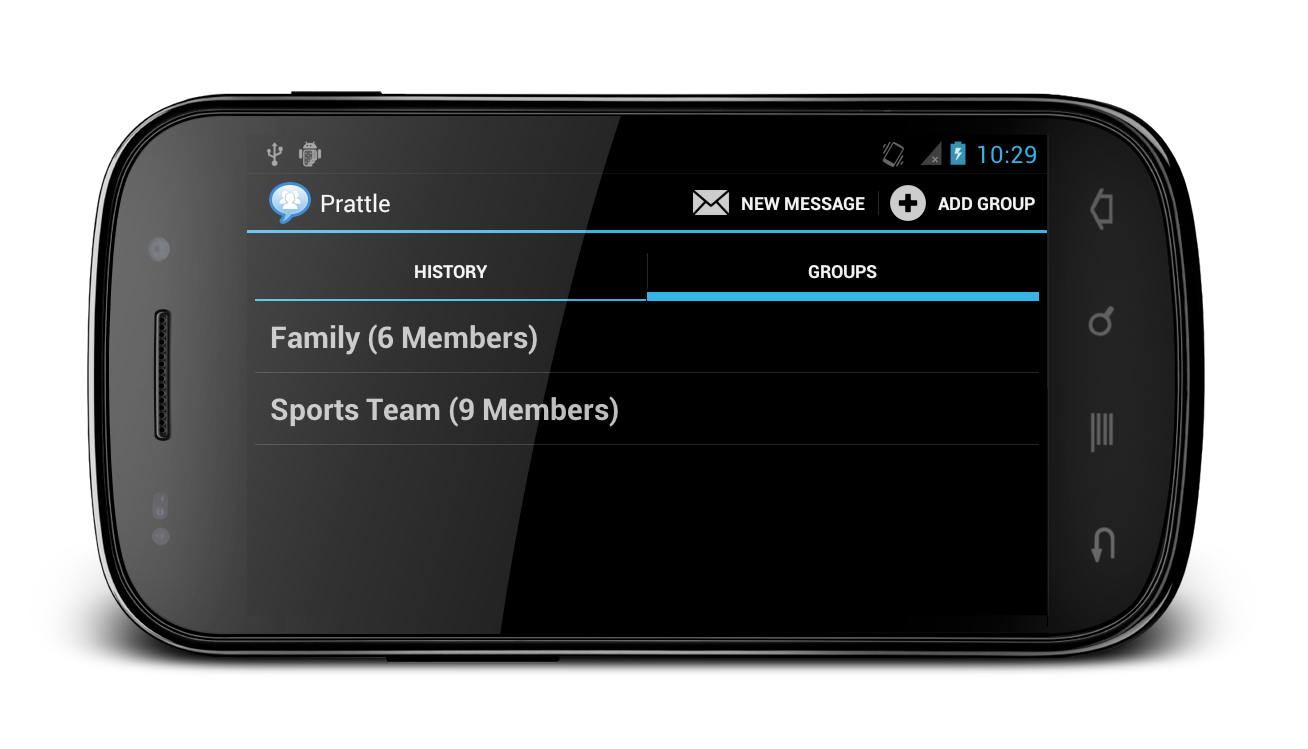
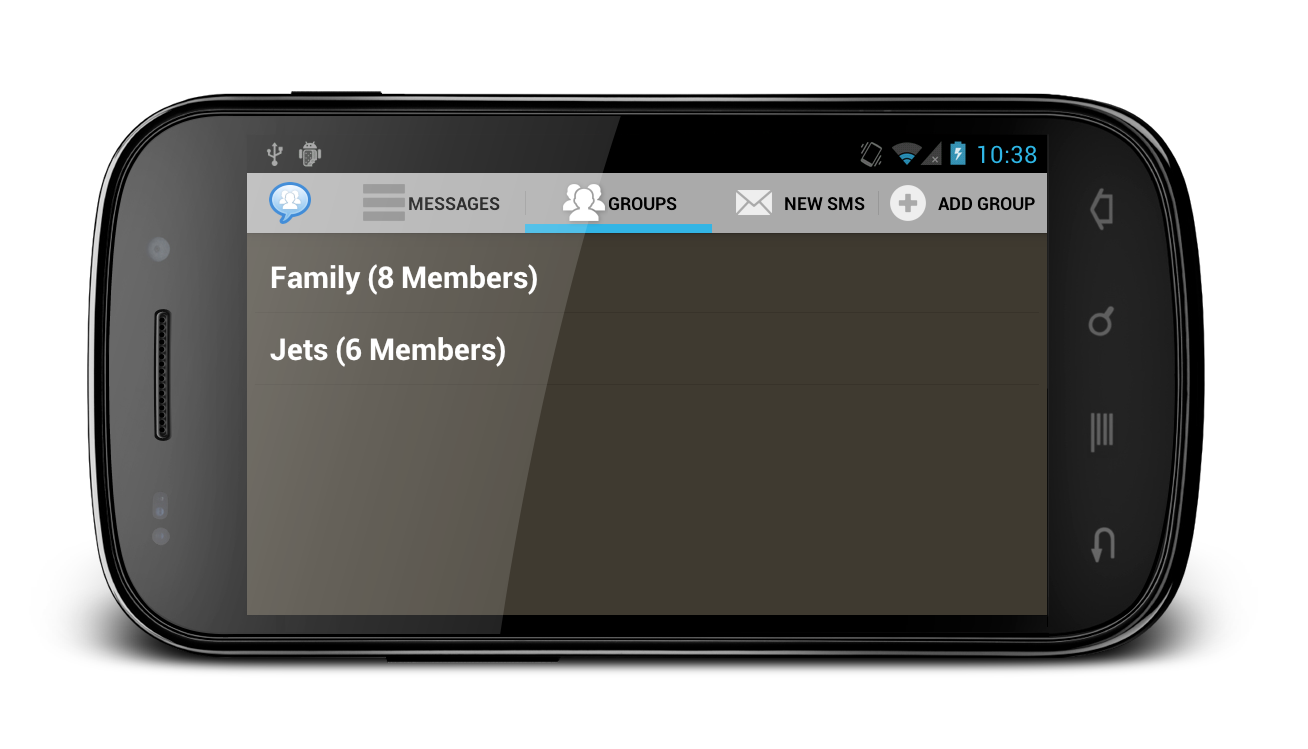
Update theme and styles Update screenshots

diff --git a/src/Activities/MainActivity.cs b/src/Activities/MainActivity.cs
@@ -10,7 +10,7 @@ using Android.Views.InputMethods;
 
 namespace Prattle
 {
-	[Activity (NoHistory=true)]
+	[Activity (NoHistory=true, Theme="@style/Theme.ActionLight")]
 	public class MainActivity : Activity
 	{
 		protected override void OnCreate (Bundle bundle)
@@ -21,7 +21,7 @@ namespace Prattle
 			ActionBar.NavigationMode = ActionBarNavigationMode.Tabs;
 			
 			//Add SMS History tab
-			var tab = this.ActionBar.NewTab ();
+			var tab = ActionBar.NewTab ();
 			tab.SetText ("Messages");
 			tab.SetIcon (Resource.Drawable.ic_tab_sms_history);
 			
@@ -33,7 +33,7 @@ namespace Prattle
 			ActionBar.AddTab (tab);
 			
 			//Add SMS Group tab
-			tab = this.ActionBar.NewTab ();
+			tab = ActionBar.NewTab ();
 			tab.SetText ("Groups");
 			tab.SetIcon (Resource.Drawable.ic_tab_sms_group);
 			

diff --git a/src/Resources/Resource.designer.cs b/src/Resources/Resource.designer.cs
@@ -180,6 +180,12 @@ namespace Prattle
 		public partial class Style
 		{
 			
+			// aapt resource value: 0x7f050002
+			public const int SMSActionBar = 2131034114;
+			
+			// aapt resource value: 0x7f050001
+			public const int Theme_ActionLight = 2131034113;
+			
 			// aapt resource value: 0x7f050000
 			public const int Theme_Splash = 2131034112;
 			

diff --git a/src/Activities/EditSMSGroupActivity.cs b/src/Activities/EditSMSGroupActivity.cs
@@ -16,7 +16,7 @@ using System.Threading.Tasks;
 
 namespace Prattle
 {
-	[Activity (Label = "Edit SMS Group", NoHistory=true)]
+	[Activity (Label = "Edit SMS Group", Theme="@style/Theme.ActionLight", NoHistory=true)]
 	public class EditSMSGroupActivity : PrattleListActivity
 	{
 		private ContactRepository _contactRepo;

diff --git a/src/Activities/NewSMSGroupActivity.cs b/src/Activities/NewSMSGroupActivity.cs
@@ -16,7 +16,7 @@ using Prattle.Android.Core;
 
 namespace Prattle
 {
-	[Activity (Label = "Group Contacts", NoHistory = true)]
+	[Activity (Label = "Group Contacts", Theme="@style/Theme.ActionLight", NoHistory = true)]
 	public class NewSMSGroupActivity : PrattleListActivity
 	{
 		ProgressDialog _progressDialog;
